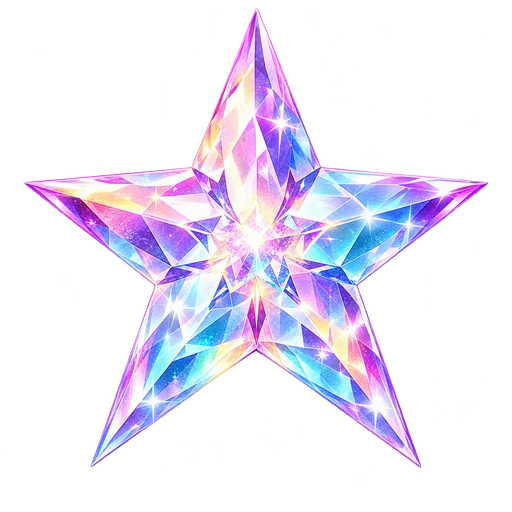
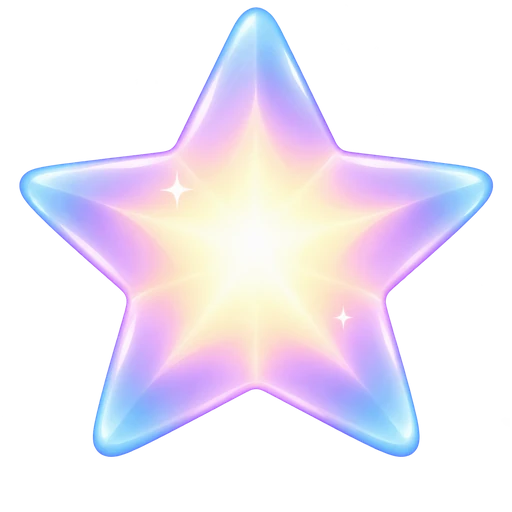
별 조각 그림을 미니멀하게 빛나는 별(시안 A: 둥근 꼭지, 가운데 금빛 → 라벤더·하늘색)로(캐시 버전 올림) — 사용자 선택 2026-10-31
Claude-Session: https://claude.ai/code/session_013jhr8HHu9QuRjA57fvFz5G

diff --git a/home.js b/home.js
@@ -159,7 +159,7 @@
   /* ── 그림 딱지: 글자 없이 그림으로 (잠김 = 자물쇠, 이번 주 무료 = 별, 만드는 중 = 가위). 생성 그림 assets/ui/badge_<kind>.webp 가
      ui.js 의 UI_ART 에 올라오면 그것을 쓰고, 그 전에는 작은 기호(코드)로 대신한다 ── */
   const UIA = new Set(window.UI_ART || []);
-  const uiImg = (key, cls = '') => `<img class="ui ${cls}" src="assets/ui/${key}.webp${key === 'logo_mark' ? '?v=moon1' : key === 'star_one' ? '?v=s3b' : ''}" alt="" aria-hidden="true" draggable="false" decoding="async">`;
+  const uiImg = (key, cls = '') => `<img class="ui ${cls}" src="assets/ui/${key}.webp${key === 'logo_mark' ? '?v=moon1' : key === 'star_one' ? '?v=s4a' : ''}" alt="" aria-hidden="true" draggable="false" decoding="async">`;
   const BADGE_SVG = {
     lock: '<svg viewBox="0 0 48 56"><path d="M13 24v-7a11 11 0 0 1 22 0v7" fill="none" stroke="#5C6784" stroke-width="5" stroke-linecap="round"/><rect x="6" y="22" width="36" height="28" rx="5" fill="#5C6784"/><circle cx="24" cy="35" r="4" fill="#F5EFE9"/><rect x="22" y="35" width="4" height="9" rx="2" fill="#F5EFE9"/></svg>',
     week: '<svg viewBox="0 0 48 48"><path d="M24 4l6 13 14 1.6-10.4 9.6 3 14L24 34 11.4 42.2l3-14L4 18.6 18 17z" fill="#C98A5B"/></svg>',
@@ -1241,7 +1241,7 @@
   function starPieces(n, mono = false) {
     const u = 'sp' + (++spUid), C = 50, R = 80, rad = d => d * Math.PI / 180;
     const pt = d => `${(C + R * Math.cos(rad(d))).toFixed(1)},${(C + R * Math.sin(rad(d))).toFixed(1)}`;
-    const src = !mono && UIA.has('star_one') ? 'assets/ui/star_one.webp?v=s3b' : '';
+    const src = !mono && UIA.has('star_one') ? 'assets/ui/star_one.webp?v=s4a' : '';
     const star = [...Array(10)].map((_, i) => { const r = i % 2 ? 20 : 47, d = rad(-90 + i * 36); return `${(C + r * Math.cos(d)).toFixed(1)},${(C + r * Math.sin(d)).toFixed(1)}`; }).join(' ');
     let defs = '', body = '';
     for (let k = 0; k < STAR_N; k++) {

diff --git a/engine/tale.js b/engine/tale.js
@@ -1274,7 +1274,7 @@ const Tale = (() => {
       if (only >= 0 && k !== only) continue;
       const a = -90 + k * 72;
       defs += `<clipPath id="${u}-${k}"><polygon points="${C},${C} ${pt(a - 36)} ${pt(a + 36)}"/></clipPath>`;
-      body += `<g clip-path="url(#${u}-${k})" class="${only >= 0 || k < n ? 'on' : 'off'}"><image href="${ROOT_URL}assets/ui/star_one.webp?v=s3b" width="100" height="100"/></g>`;
+      body += `<g clip-path="url(#${u}-${k})" class="${only >= 0 || k < n ? 'on' : 'off'}"><image href="${ROOT_URL}assets/ui/star_one.webp?v=s4a" width="100" height="100"/></g>`;
     }
     const cuts = only >= 0 ? '' : [...Array(5)].map((_, k) => `<line x1="${C}" y1="${C}" x2="${(C + 50 * Math.cos(rad(-54 + k * 72))).toFixed(1)}" y2="${(C + 50 * Math.sin(rad(-54 + k * 72))).toFixed(1)}"/>`).join('');
     return `<svg class="star-pc" viewBox="0 0 100 100" aria-hidden="true"><defs>${defs}</defs>${body}<g class="cuts">${cuts}</g></svg>`;

diff --git a/tales/patjuk/index.html b/tales/patjuk/index.html
@@ -17,7 +17,7 @@
 <script>try { const q = new URLSearchParams(location.search).get('voice'); if (q === 'tc') localStorage.setItem('voice', 'tc'); else if (q === 'el') localStorage.removeItem('voice'); if (localStorage.getItem('voice') !== 'tc') document.write('<script src="narration_el.js?v=20261030halmi"><\/script>' + (localStorage.getItem('lang') === 'en' ? '<script src="narration_el_en.js?v=20261030halmi"><\/script>' : '')); } catch (e) { /* ElevenLabs 없이 Typecast 로 */ }</script>
 <script src="../../entitlements.js?v=20261028pz1"></script>
 <script src="../../audio.js?v=20261030ensl"></script>
-<script src="../../engine/tale.js?v=20261031sp5"></script>
+<script src="../../engine/tale.js?v=20261031s4a"></script>
 <script src="patjuk.js?v=20261030fin"></script>
 </body>
 </html>

diff --git a/tales/magic_jar/index.html b/tales/magic_jar/index.html
@@ -15,7 +15,7 @@
 <script>try { const q = new URLSearchParams(location.search).get('voice'); if (q === 'tc') localStorage.setItem('voice', 'tc'); else if (q === 'el') localStorage.removeItem('voice'); if (localStorage.getItem('voice') !== 'tc') document.write('<script src="narration_el.js?v=20261031pit"><\/script>' + (localStorage.getItem('lang') === 'en' ? '<script src="narration_el_en.js?v=20261031pit"><\/script>' : '')); } catch (e) { /* ElevenLabs 없이 Typecast 로 */ }</script>
 <script src="../../entitlements.js?v=20261028pz1"></script>
 <script src="../../audio.js?v=20261030ensl"></script>
-<script src="../../engine/tale.js?v=20261031sp5"></script>
+<script src="../../engine/tale.js?v=20261031s4a"></script>
 <script src="magic_jar.js?v=20261031fin"></script>
 </body>
 </html>

diff --git a/tales/rabbit/index.html b/tales/rabbit/index.html
@@ -15,7 +15,7 @@
 <script>try { const q = new URLSearchParams(location.search).get('voice'); if (q === 'tc') localStorage.setItem('voice', 'tc'); else if (q === 'el') localStorage.removeItem('voice'); if (localStorage.getItem('voice') !== 'tc') document.write('<script src="narration_el.js?v=20261023t"><\/script>' + (localStorage.getItem('lang') === 'en' ? '<script src="narration_el_en.js?v=20261023t"><\/script>' : '')); } catch (e) { /* ElevenLabs 없이 Typecast 로 */ }</script>
 <script src="../../entitlements.js?v=20261028pz1"></script>
 <script src="../../audio.js?v=20261030ensl"></script>
-<script src="../../engine/tale.js?v=20261031sp5"></script>
+<script src="../../engine/tale.js?v=20261031s4a"></script>
 <script src="rabbit.js?v=20261029img1cls2"></script>
 </body>
 </html>

diff --git a/tales/three_pigs/index.html b/tales/three_pigs/index.html
@@ -15,7 +15,7 @@
 <script>try { const q = new URLSearchParams(location.search).get('voice'); if (q === 'tc') localStorage.setItem('voice', 'tc'); else if (q === 'el') localStorage.removeItem('voice'); if (localStorage.getItem('voice') !== 'tc') document.write('<script src="narration_el.js?v=20261031c3"><\/script>' + (localStorage.getItem('lang') === 'en' ? '<script src="narration_el_en.js?v=20261031c3"><\/script>' : '')); } catch (e) { /* ElevenLabs 없이 Typecast 로 */ }</script>
 <script src="../../entitlements.js?v=20261028pz1"></script>
 <script src="../../audio.js?v=20261030ensl"></script>
-<script src="../../engine/tale.js?v=20261031sp5"></script>
+<script src="../../engine/tale.js?v=20261031s4a"></script>
 <script src="three_pigs.js?v=20261031hd"></script>
 </body>
 </html>

diff --git a/tales/wolf_goats/index.html b/tales/wolf_goats/index.html
@@ -15,7 +15,7 @@
 <script>try { const q = new URLSearchParams(location.search).get('voice'); if (q === 'tc') localStorage.setItem('voice', 'tc'); else if (q === 'el') localStorage.removeItem('voice'); if (localStorage.getItem('voice') !== 'tc') document.write('<script src="narration_el.js?v=20261022w"><\/script>' + (localStorage.getItem('lang') === 'en' ? '<script src="narration_el_en.js?v=20261022w"><\/script>' : '')); } catch (e) { /* ElevenLabs 없이 Typecast 로 */ }</script>
 <script src="../../entitlements.js?v=20261028pz1"></script>
 <script src="../../audio.js?v=20261030ensl"></script>
-<script src="../../engine/tale.js?v=20261031sp5"></script>
+<script src="../../engine/tale.js?v=20261031s4a"></script>
 <script src="wolf_goats.js?v=20261031fin"></script>
 </body>
 </html>

diff --git a/tales/bremen/index.html b/tales/bremen/index.html
@@ -15,7 +15,7 @@
 <script>try { const q = new URLSearchParams(location.search).get('voice'); if (q === 'tc') localStorage.setItem('voice', 'tc'); else if (q === 'el') localStorage.removeItem('voice'); if (localStorage.getItem('voice') !== 'tc') document.write('<script src="narration_el.js?v=20261029br"><\/script>' + (localStorage.getItem('lang') === 'en' ? '<script src="narration_el_en.js?v=20261029br"><\/script>' : '')); } catch (e) { /* ElevenLabs 없이 Typecast 로 */ }</script>
 <script src="../../entitlements.js?v=20261028pz1"></script>
 <script src="../../audio.js?v=20261030ensl"></script>
-<script src="../../engine/tale.js?v=20261031sp5"></script>
+<script src="../../engine/tale.js?v=20261031s4a"></script>
 <script src="bremen.js?v=20261029rob"></script>
 </body>
 </html>

diff --git a/tales/ugly_duckling/index.html b/tales/ugly_duckling/index.html
@@ -15,7 +15,7 @@
 <script>try { const q = new URLSearchParams(location.search).get('voice'); if (q === 'tc') localStorage.setItem('voice', 'tc'); else if (q === 'el') localStorage.removeItem('voice'); if (localStorage.getItem('voice') !== 'tc') document.write('<script src="narration_el.js"><\/script>' + (localStorage.getItem('lang') === 'en' ? '<script src="narration_el_en.js"><\/script>' : '')); } catch (e) { /* ElevenLabs 없이 Typecast 로 */ }</script>
 <script src="../../entitlements.js?v=20261028pz1"></script>
 <script src="../../audio.js?v=20261030ensl"></script>
-<script src="../../engine/tale.js?v=20261031sp5"></script>
+<script src="../../engine/tale.js?v=20261031s4a"></script>
 <script src="ugly_duckling.js?v=20261031fincls2"></script>
 </body>
 </html>

diff --git a/tales/ant_grasshopper/index.html b/tales/ant_grasshopper/index.html
@@ -15,7 +15,7 @@
 <script>try { const q = new URLSearchParams(location.search).get('voice'); if (q === 'tc') localStorage.setItem('voice', 'tc'); else if (q === 'el') localStorage.removeItem('voice'); if (localStorage.getItem('voice') !== 'tc') document.write('<script src="narration_el.js"><\/script>' + (localStorage.getItem('lang') === 'en' ? '<script src="narration_el_en.js"><\/script>' : '')); } catch (e) { /* ElevenLabs 없이 Typecast 로 */ }</script>
 <script src="../../entitlements.js?v=20261028pz1"></script>
 <script src="../../audio.js?v=20261030ensl"></script>
-<script src="../../engine/tale.js?v=20261031sp5"></script>
+<script src="../../engine/tale.js?v=20261031s4a"></script>
 <script src="ant_grasshopper.js?v=20261031fin"></script>
 </body>
 </html>

diff --git a/tales/cinderella/index.html b/tales/cinderella/index.html
@@ -16,7 +16,7 @@
 <script>try { const q = new URLSearchParams(location.search).get('voice'); if (q === 'tc') localStorage.setItem('voice', 'tc'); else if (q === 'el') localStorage.removeItem('voice'); if (localStorage.getItem('voice') !== 'tc') document.write('<script src="narration_el.js"><\/script>' + (localStorage.getItem('lang') === 'en' ? '<script src="narration_el_en.js"><\/script>' : '')); } catch (e) { /* ElevenLabs 없이 Typecast 로 */ }</script>
 <script src="../../entitlements.js?v=20261028pz1"></script>
 <script src="../../audio.js?v=20261030ensl"></script>
-<script src="../../engine/tale.js?v=20261031sp5"></script>
+<script src="../../engine/tale.js?v=20261031s4a"></script>
 <script src="cinderella.js?v=20261031fin1cls"></script>
 </body>
 </html>

diff --git a/tales/lion_mouse/index.html b/tales/lion_mouse/index.html
@@ -15,7 +15,7 @@
 <script>try { const q = new URLSearchParams(location.search).get('voice'); if (q === 'tc') localStorage.setItem('voice', 'tc'); else if (q === 'el') localStorage.removeItem('voice'); if (localStorage.getItem('voice') !== 'tc') document.write('<script src="narration_el.js"><\/script>' + (localStorage.getItem('lang') === 'en' ? '<script src="narration_el_en.js"><\/script>' : '')); } catch (e) { /* ElevenLabs 없이 Typecast 로 */ }</script>
 <script src="../../entitlements.js?v=20261028pz1"></script>
 <script src="../../audio.js?v=20261030ensl"></script>
-<script src="../../engine/tale.js?v=20261031sp5"></script>
+<script src="../../engine/tale.js?v=20261031s4a"></script>
 <script src="lion_mouse.js?v=20261031fincls"></script>
 </body>
 </html>
